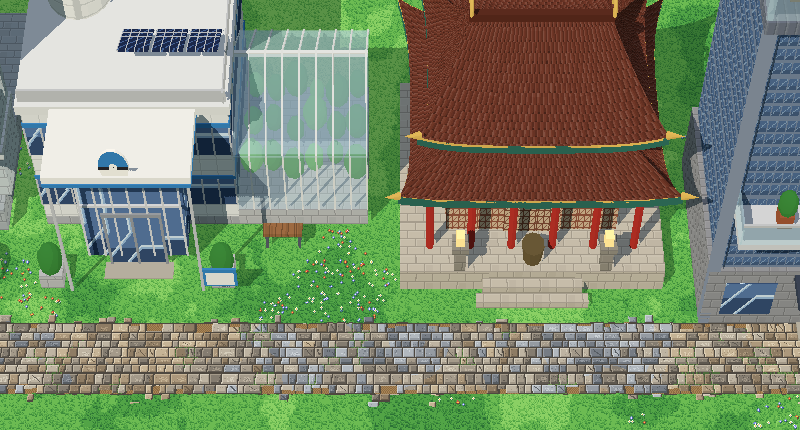
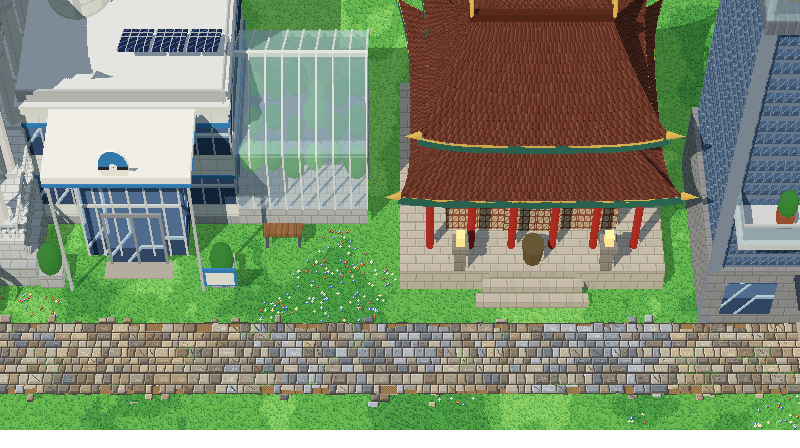
outils(odyssee): arènes en temples-pavillons, allée de la Ligue dégagée [skip changelog]
Arènes : grands temples de pierre à péristyle de colonnes et toits de pavillon
à coins doucement relevés, claire-voie à vitraux, couleur et ornement du type.
Ligue : allée allongée à 32 cases, colonnes isolées à vasques de feu, plus
aucune poutre au-dessus du chemin ni devant le portail. Chapelle sans croix.

Claude-Session: https://claude.ai/code/session_01E9CUaRG7xUjwzj1i4ypday

Changed region(s): [[0.0, 0.0, 0.1562, 0.6875]]

diff --git a/tools/pixelforge/modeles3d.js b/tools/pixelforge/modeles3d.js
@@ -973,7 +973,7 @@ export function atelier(D) {
     for (const [dx, dz] of [[0, 0.76], [0.81, 0]]) G.add(at(boite(dx ? 0.03 : 0.5, 0.8, dx ? 0.5 : 0.03, COL('#1a1614')), cx + dx, 4.0, zc + dz));
     G.add(at(new THREE.Mesh(new THREE.CircleGeometry(0.35, 14, 0, Math.PI), COL('#1a1614')), cx, 4.4, zc + 0.76));
     G.add(toit4(G, cx, zc, 4.9, 0.95, 0.9, 2.6, M({ map: TX.ardoise(toit) }), 0));
-    G.add(at(boite(0.06, 0.7, 0.06, OR), cx, 7.85, zc)); G.add(at(boite(0.36, 0.06, 0.06, OR), cx, 7.95, zc));
+    G.add(at(new THREE.Mesh(new THREE.SphereGeometry(0.1, 8, 6), OR), cx, 7.6, zc));
     const ro = new THREE.Mesh(new THREE.CircleGeometry(0.34, 16), M({ map: TX.vitrail('#c83a5a') })); G.add(at(ro, cx, 2.6, zc + 0.76));
     G.add(at(new THREE.Mesh(new THREE.TorusGeometry(0.36, 0.06, 6, 16), PM), cx, 2.6, zc + 0.78));
     G.add(at(boite(0.8, 1.2, 0.04, M({ map: TX.bois('#5a3020') })), cx, 0.6, zc + 0.76));
@@ -1167,17 +1167,18 @@ export function atelier(D) {
 
   /* -------------------------------------------------------------- arènes par type ----------------------------------- */
   const ARENES = {
-    feu: { acc: '#e05a20', pierre: '#a08070', toit: '#5a2a22', roof: 'toit4' },
-    eau: { acc: '#2a86d8', pierre: '#d0dce4', toit: '#2a6aa8', roof: 'dome' },
-    plante: { acc: '#4aa040', pierre: '#cfc6a4', toit: '#3a7a3a', roof: 'toit4' },
-    electrik: { acc: '#f0c020', pierre: '#b8bcc4', toit: '#50545e', roof: 'voute' },
-    psy: { acc: '#c050c0', pierre: '#ddd4e6', toit: '#6a3a8a', roof: 'dome' },
-    dragon: { acc: '#6a4ad0', pierre: '#76728a', toit: '#3a2a5a', roof: 'toit4' },
-    glace: { acc: '#60c0f0', pierre: '#e4f0f6', toit: '#9ad0ec', roof: 'dome' },
-    roche: { acc: '#b08a50', pierre: '#a89a84', toit: '#6a5a4a', roof: 'toit4' },
-    combat: { acc: '#c83028', pierre: '#c8bca8', toit: '#4a3a32', roof: 'voute' },
-    spectre: { acc: '#8a50c8', pierre: '#625e70', toit: '#2a2438', roof: 'toit4' },
+    feu: { acc: '#e05a20', pierre: '#c8b0a0', toit: '#b8402a' },
+    eau: { acc: '#2a86d8', pierre: '#dce4ea', toit: '#2a6aa8' },
+    plante: { acc: '#4aa040', pierre: '#d8d0b0', toit: '#3a7a3a' },
+    electrik: { acc: '#f0c020', pierre: '#c8ccd2', toit: '#c89a20' },
+    psy: { acc: '#c050c0', pierre: '#e4dcea', toit: '#7a3a9a' },
+    dragon: { acc: '#6a4ad0', pierre: '#9a96a8', toit: '#3a2a6a' },
+    glace: { acc: '#60c0f0', pierre: '#eaf2f6', toit: '#8ac8e8' },
+    roche: { acc: '#b08a50', pierre: '#c0b29a', toit: '#7a6a52' },
+    combat: { acc: '#c83028', pierre: '#d4c8b4', toit: '#8a2a22' },
+    spectre: { acc: '#8a50c8', pierre: '#86829a', toit: '#3a2c4a' },
   };
+
   /** emblème du type dessiné sur un médaillon */
   const emblemeTex = (type, acc) => tex('em' + type, 2 * D, 2 * D, (g, px, w, h) => {
     g.fillStyle = '#f4f0e6'; g.beginPath(); g.arc(w / 2, h / 2, w / 2, 0, 7); g.fill();
@@ -1257,79 +1258,86 @@ export function atelier(D) {
     if (type === 'plante') for (let i = 0; i < 5; i++) G.add(at(new THREE.Mesh(new THREE.SphereGeometry(0.12, 6, 4), COL(['#f05a7a', '#f8d850', '#fafaf2'][i % 3])), x - 0.3 + i * 0.15, 0.85, z + 0.3));
     sommetType(G, type, x, 0.77, z, acc);
   }
-  /** arène (11 × 9) : un bâtiment plus haut et plus majestueux que la mairie, peu de fenêtres. Socle, grande salle de
-   *  pierre, pilastres, frise de la couleur du type, grande rosace en vitrail, deux pylônes coiffés d'un ornement du
-   *  type, avancée couverte à six colonnes sous un fronton à l'emblème, perron bordé d'ornements ; toit selon le type
-   *  (croupes, coupole, voûte). Porte de 2 cases. */
+  /** arène (12 × 11) : un grand temple de pierre entre le pavillon et le temple à colonnade. Haut podium à deux gradins
+   *  bordé d'une balustrade, péristyle de colonnes de marbre à chapiteaux dorés tout autour d'une salle de pierre,
+   *  entablement à frise de la couleur du type, premier toit en jupe à coins à peine relevés, claire-voie à vitraux,
+   *  grand toit à demi-croupes de tuiles de la couleur du type, faîtage orné et ornement du type au sommet, bannières
+   *  entre les colonnes de façade, lanternes sous l'avant-toit, perron monumental bordé d'ornements ; porte de 2 cases */
   B.arene = ({ type = 'feu', ...autres } = {}) => {
     const T = { ...(ARENES[type] || ARENES.feu), ...autres }, acc = T.acc;
-    const G = new THREE.Group(), cx = 5.5, H = 5.2, y0 = 0.6, PM = M({ map: TX.pierre(T.pierre) }), PB = M({ map: TX.pierre(mix(T.pierre, 0.35)) }), A = COL(acc);
-    G.add(at(boite(10.6, y0, 6.6, M({ map: TX.pierre(mix(T.pierre, -0.15)) })), cx, y0 / 2, 3.3));
-    G.add(at(boite(8.4, H, 6, PM), cx, y0 + H / 2, 3));
-    G.add(at(boite(8.5, 0.4, 6.1, A), cx, y0 + H - 0.35, 3));
-    for (let i = 0; i < 14; i++) G.add(at(boite(0.24, 0.24, 0.04, COL('#f4f0e6')), 1.6 + i * 0.6, y0 + H - 0.35, 6.07));
-    G.add(at(boite(8.9, 0.24, 6.5, PB), cx, y0 + H + 0.05, 3));
-    // toit
-    const yt = y0 + H + 0.17;
-    if (T.roof === 'dome') {
-      G.add(at(boite(8.4, 0.35, 6, PB), cx, yt + 0.17, 3));
-      G.add(at(cyl(2.4, 2.5, 0.8, PM, 24), cx, yt + 0.75, 3));
-      const dm = new THREE.Mesh(new THREE.SphereGeometry(2.45, 24, 12, 0, Math.PI * 2, 0, Math.PI / 2), M({ map: TX.canal(T.toit) })); dm.castShadow = true; G.add(at(dm, cx, yt + 1.15, 3));
-      for (let i = 0; i < 12; i++) { const a = i / 12 * Math.PI * 2, nv = new THREE.Mesh(new THREE.TorusGeometry(2.47, 0.05, 4, 12, Math.PI / 2), A); nv.rotation.y = -a; G.add(at(nv, cx, yt + 1.15, 3)); }
-      sommetType(G, type, cx, yt + 3.5, 3, acc);
-    } else if (T.roof === 'voute') {
-      voute(G, 1.3, 9.7, 0, 6, yt, 2.2, M({ map: TX.tole(T.toit) }), A, 0.25);
-      for (let k = 0; k < 6; k++) { const nv = new THREE.Mesh(new THREE.TorusGeometry(3.25, 0.07, 4, 16, Math.PI), A); nv.scale.set(1, 2.2 / 3.25, 1); nv.rotation.y = Math.PI / 2; G.add(at(nv, 1.6 + k * 1.56, yt, 3)); }
-      G.add(at(boite(5.5, 0.12, 1.0, M({ map: TX.verre() })), cx, yt + 2.22, 3));
-    } else {
-      G.add(toit4(G, cx, 3, yt, 4.55, 3.4, 2.4, M({ map: TX.ardoise(T.toit) }), 0.35));
-      G.add(at(boite(3.4, 0.2, 0.3, A), cx, yt + 2.5, 3));
-      if (type === 'feu') for (const dx of [-1.5, 0, 1.5]) flamme(G, cx + dx, yt + 2.58, 3, 1.3);
-      if (type === 'dragon') for (let i = 0; i < 7; i++) { const c = new THREE.Mesh(new THREE.ConeGeometry(0.12, 0.5, 5), COL('#e8e0d0')); c.rotation.x = -0.3; G.add(at(c, cx - 1.5 + i * 0.5, yt + 2.8, 3)); }
-      if (type === 'plante') for (let i = 0; i < 8; i++) G.add(at(new THREE.Mesh(new THREE.SphereGeometry(0.3, 6, 4), COL(i % 2 ? '#4a9a40' : '#3a8a38')), 2 + i * 1.0, yt + 0.5 + (i % 3) * 0.3, 5.5 - (i % 3) * 0.6));
-      if (type === 'spectre') for (const dx of [-1.8, 1.8]) { G.add(at(boite(0.4, 1.4, 0.4, COL('#2a2438')), cx + dx, yt + 2.9, 3)); G.add(at(new THREE.Mesh(new THREE.ConeGeometry(0.32, 1.0, 4), COL('#2a2438')), cx + dx, yt + 4.1, 3)); }
-      if (type === 'roche') for (let i = 0; i < 5; i++) { const p = new THREE.Mesh(new THREE.DodecahedronGeometry(0.35), M({ map: TX.pierre('#8a7e6a') })); G.add(at(p, 2.0 + i * 1.7, yt + 0.4, 5.7)); }
+    const G = new THREE.Group(), cx = 6, cz = 4.6, A = COL(acc);
+    const PM = M({ map: TX.pierre(T.pierre) }), PB = M({ map: TX.pierre(mix(T.pierre, 0.35)) }), PS = M({ map: TX.pierre(mix(T.pierre, -0.12)) }), MA = M({ map: TX.marbre() });
+    // podium à deux gradins (z 0 → 9,4), perron au sud (z 9,4 → 10,8)
+    G.add(at(boite(12, 0.55, 9.4, PS), cx, 0.27, cz));
+    G.add(at(boite(11.4, 0.5, 8.8, PM), cx, 0.8, cz));
+    G.add(at(boite(11.5, 0.08, 8.9, PB), cx, 1.06, cz));
+    const y0 = 1.05;
+    for (let k = 0; k < 5; k++) G.add(at(boite(4.4 + k * 0.25, 0.21, 0.32, PB), cx, 0.105 + (4 - k) * 0.21, 9.2 + k * 0.32 - 0.16));
+    for (const s of [-1, 1]) {   // limons du perron
+      G.add(at(boite(0.35, 0.9, 1.7, PM), cx + s * 2.45, 0.45, 9.85));
     }
-    if (type === 'glace') for (let i = 0; i < 20; i++) { const c = new THREE.Mesh(new THREE.ConeGeometry(0.06, 0.25 + hash(i, 3) * 0.3, 5), M({ color: new THREE.Color('#d8f2ff'), transparent: true, opacity: 0.85 })); c.rotation.x = Math.PI; G.add(at(c, 1.3 + i * 0.44, y0 + H - 0.3, 6.28)); }
-    if (type === 'electrik') for (const x of [2.5, 8.5]) { G.add(at(cyl(0.03, 0.04, 1.4, COL('#c8ccd4'), 6), x, yt + 2.6, 3)); G.add(at(new THREE.Mesh(new THREE.SphereGeometry(0.1, 8, 6), LUM('#fff080', '#c0a000')), x, yt + 3.35, 3)); }
-    // pylônes
-    for (const xx of [0.9, 10.1]) {
-      const hp = H + 1.6;
-      G.add(at(boite(1.8, hp, 1.8, PM), xx, y0 + hp / 2, 5.2));
-      for (const yy of [y0 + 1.2, y0 + hp - 0.6]) G.add(at(boite(1.95, 0.2, 1.95, PB), xx, yy, 5.2));
-      G.add(at(boite(1.0, 0.04, 0.02, A), xx, y0 + hp - 1.2, 6.11));
-      fenArc(G, xx, y0 + hp - 2.4, 6.1, 0.4, 0.9, PB, M({ map: TX.vitrail(acc) }));
-      const ban = boite(0.8, 2.2, 0.03, A); G.add(at(ban, xx, y0 + 2.2, 6.12));
-      G.add(at(new THREE.Mesh(new THREE.CircleGeometry(0.28, 16), M({ map: emblemeTex(type, acc) })), xx, y0 + 2.6, 6.15));
-      G.add(at(boite(2.1, 0.25, 2.1, PB), xx, y0 + hp + 0.12, 5.2));
-      sommetType(G, type, xx, y0 + hp + 0.25, 5.2, acc);
+    // balustrade du podium (ouverte devant le perron)
+    const bx0 = cx - 5.6, bx1 = cx + 5.6, bz0 = cz - 4.3, bz1 = cz + 4.3;
+    balustrade(G, bx0, bz1, cx - 2.3, bz1, y0, PB, 0.4, 0.26); balustrade(G, cx + 2.3, bz1, bx1, bz1, y0, PB, 0.4, 0.26);
+    balustrade(G, bx0, bz0, bx0, bz1, y0, PB, 0.4, 0.26); balustrade(G, bx1, bz0, bx1, bz1, y0, PB, 0.4, 0.26);
+    // salle de pierre
+    const hc = 4.2, sx = 4.2, sz = 2.95;
+    G.add(at(boite(2 * sx, hc, 2 * sz, PM), cx, y0 + hc / 2, cz - 0.2));
+    for (const yy of [y0 + 0.15, y0 + hc - 0.3]) G.add(at(boite(2 * sx + 0.08, 0.14, 2 * sz + 0.08, PB), cx, yy, cz - 0.2));
+    const zf = cz - 0.2 + sz;
+    // grande porte à double battant sous une imposte en vitrail, encadrement doré
+    G.add(at(boite(1.8, 2.3, 0.05, M({ map: TX.bois('#5a3020') })), cx, y0 + 1.15, zf + 0.01));
+    G.add(at(boite(0.04, 2.3, 0.06, COL('#2a1a10')), cx, y0 + 1.15, zf + 0.04));
+    for (const s of [-1, 1]) for (let k = 0; k < 3; k++) G.add(at(new THREE.Mesh(new THREE.SphereGeometry(0.04, 6, 4), OR), cx + s * 0.45, y0 + 0.5 + k * 0.65, zf + 0.05));
+    G.add(at(new THREE.Mesh(new THREE.CircleGeometry(0.9, 18, 0, Math.PI), M({ map: TX.vitrail(acc) })), cx, y0 + 2.3, zf + 0.01));
+    G.add(at(new THREE.Mesh(new THREE.TorusGeometry(0.95, 0.07, 6, 18, Math.PI), OR), cx, y0 + 2.3, zf + 0.05));
+    for (const s of [-1, 1]) G.add(at(boite(0.12, 2.3, 0.1, OR), cx + s * 0.96, y0 + 1.15, zf + 0.05));
+    for (const s of [-1, 1]) for (const dx of [1.9, 3.0]) fenArc(G, cx + s * dx, y0 + 1.9, zf, 0.5, 2.0, PB, M({ map: TX.vitrail(acc) }));
+    // péristyle : colonnes tout autour (8 en façade), chapiteaux et bagues dorés
+    const px = 5.0, pz = 3.85, pzc = cz - 0.1, hcol = 4.2;
+    const cols = [];
+    for (let i = 0; i < 8; i++) { const x = cx - px + i * (2 * px / 7); cols.push([x, pzc + pz], [x, pzc - pz]); }
+    for (let i = 1; i < 5; i++) { const z = pzc - pz + i * (2 * pz / 5); cols.push([cx - px, z], [cx + px, z]); }
+    for (const [x, z] of cols) { colonne(G, x, z, y0, hcol, 0.24, MA, PB); G.add(at(cyl(0.29, 0.29, 0.07, OR, 12), x, y0 + hcol - 0.32, z)); }
+    // entablement : architrave, frise de la couleur du type à médaillons, corniche
+    const ye = y0 + hcol;
+    G.add(at(boite(2 * px + 0.75, 0.32, 2 * pz + 0.75, PB), cx, ye + 0.16, pzc));
+    G.add(at(boite(2 * px + 0.78, 0.3, 2 * pz + 0.78, A), cx, ye + 0.47, pzc));
+    for (let i = 0; i < 13; i++) G.add(at(new THREE.Mesh(new THREE.CircleGeometry(0.09, 10), OR), cx - px + i * (2 * px / 12), ye + 0.47, pzc + pz + 0.4));
+    G.add(at(boite(2 * px + 1.0, 0.16, 2 * pz + 1.0, PB), cx, ye + 0.7, pzc));
+    // plaque à l'emblème au-dessus de l'entrée
+    G.add(at(boite(1.5, 0.75, 0.08, PB), cx, ye + 0.45, pzc + pz + 0.44));
+    G.add(at(new THREE.Mesh(new THREE.CircleGeometry(0.3, 20), M({ map: emblemeTex(type, acc) })), cx, ye + 0.45, pzc + pz + 0.49));
+    G.add(at(new THREE.Mesh(new THREE.TorusGeometry(0.32, 0.05, 6, 20), OR), cx, ye + 0.45, pzc + pz + 0.5));
+    // premier toit en jupe : coins à peine relevés (élégance du pavillon, sans exagération)
+    const yr = ye + 0.78, TT = { col: T.toit, rive: mix(T.pierre, -0.45), bord: '#e8c060', uvk: 0.4, flare: 0.04 };
+    toitChinois(G, cx, pzc, yr, px + 0.55, pz + 0.55, 0.6, { ...TT, xt: sx + 0.05, zt: sz + 0.25, lift: 0.25 });
+    // claire-voie : mur bas percé de vitraux ronds, poteaux de pierre
+    const yv = yr + 0.55, hv = 1.8;
+    G.add(at(boite(2 * sx + 0.1, hv, 2 * sz + 0.5, PM), cx, yv + hv / 2, pzc));
+    for (let i = 0; i < 5; i++) { const x = cx - 2.8 + i * 1.4; fenArc(G, x, yv + hv / 2 - 0.1, pzc + sz + 0.25, 0.5, 0.75, PB, M({ map: TX.vitrail(acc) })); }
+    for (let i = 0; i < 6; i++) G.add(at(boite(0.18, hv, 0.1, PB), cx - 3.5 + i * 1.4, yv + hv / 2, pzc + sz + 0.27));
+    G.add(at(boite(2 * sx + 0.3, 0.14, 2 * sz + 0.7, PB), cx, yv + hv - 0.07, pzc));
+    // grand toit à demi-croupes, faîtage orné, ornement du type au sommet
+    const yh = yv + hv - 0.05;
+    toitChinois(G, cx, pzc, yh, sx + 0.75, sz + 0.75, 1.75, { ...TT, xt: sx - 1.0, zt: 0.14, lift: 0.35 });
+    const orn = new THREE.Group(); orn.scale.setScalar(0.8); G.add(orn);
+    sommetType(orn, type, cx / 0.8, (yh + 1.85) / 0.8, pzc / 0.8, acc);
+    // lanternes pendues aux coins de l'avant-toit, bannières entre les colonnes de façade
+    for (const sxx of [-1, 1]) for (const szz of [-1, 1]) { G.add(at(boite(0.03, 0.35, 0.03, COL('#2a2a30')), cx + sxx * (px + 0.3), yr - 0.05, pzc + szz * (pz + 0.3))); G.add(at(cyl(0.12, 0.12, 0.3, LUM('#ffe0a0', '#a06020'), 8), cx + sxx * (px + 0.3), yr - 0.38, pzc + szz * (pz + 0.3))); }
+    for (const s of [-1, 1]) {
+      const x = cx + s * (2 * px / 7) * 1.5;
+      G.add(at(boite(0.05, 0.05, 0.9, COL('#2a2a30')), x, ye - 0.08, pzc + pz - 0.1));
+      G.add(at(boite(0.75, 2.2, 0.03, A), x, ye - 1.2, pzc + pz + 0.3));
+      G.add(at(new THREE.Mesh(new THREE.CircleGeometry(0.24, 16), M({ map: emblemeTex(type, acc) })), x, ye - 0.9, pzc + pz + 0.32));
+      const pt = new THREE.Shape(); pt.moveTo(-0.375, 0); pt.lineTo(0.375, 0); pt.lineTo(0, -0.3); pt.closePath();
+      G.add(at(new THREE.Mesh(new THREE.ShapeGeometry(pt), A), x, ye - 2.3, pzc + pz + 0.3));
     }
-    // façade : pilastres, deux hautes baies à vitrail, grande rosace
-    for (const xx of [1.95, 3.0, 8.0, 9.05]) G.add(at(boite(0.3, H - 0.4, 0.14, PB), xx, y0 + (H - 0.4) / 2, 6.06));
-    for (const xx of [2.48, 8.52]) fenArc(G, xx, y0 + 2.0, 6.0, 0.55, 2.2, PB, M({ map: TX.vitrail(acc) }));
-    const ros = new THREE.Mesh(new THREE.CircleGeometry(0.85, 24), M({ map: TX.vitrail(acc) })); G.add(at(ros, cx, y0 + H - 1.35, 6.01));
-    G.add(at(new THREE.Mesh(new THREE.TorusGeometry(0.9, 0.1, 6, 24), PB), cx, y0 + H - 1.35, 6.05));
-    // avancée couverte à colonnes (z 6 → 8,2), fronton à l'emblème
-    G.add(at(boite(6.8, y0, 2.4, M({ map: TX.pierre(mix(T.pierre, -0.15)) })), cx, y0 / 2, 7.2));
-    const hc = 3.3;
-    for (let i = 0; i < 6; i++) { const x = cx - 3.0 + i * 1.2; colonne(G, x, 7.95, y0, hc, 0.22, M({ map: TX.marbre() }), PB); if (type === 'plante') for (let k = 0; k < 5; k++) G.add(at(boite(0.08, 0.35, 0.08, COL('#3c8c3c')), x + Math.sin(k * 2) * 0.2, y0 + 0.5 + k * 0.6, 8.18)); }
-    for (const x of [cx - 3.0, cx + 3.0]) G.add(at(boite(0.4, hc, 0.4, PB), x, y0 + hc / 2, 6.25));
-    G.add(at(boite(7.0, 0.5, 2.5, PB), cx, y0 + hc + 0.25, 7.1));
-    G.add(at(boite(7.04, 0.18, 2.54, A), cx, y0 + hc + 0.12, 7.1));
-    fronton(G, cx, y0 + hc + 0.5, 8.35, 7.0, 1.35, 2.5, PB);
-    G.add(at(new THREE.Mesh(new THREE.CircleGeometry(0.5, 20), M({ map: emblemeTex(type, acc) })), cx, y0 + hc + 0.98, 8.36));
-    G.add(at(new THREE.Mesh(new THREE.TorusGeometry(0.52, 0.06, 6, 20), OR), cx, y0 + hc + 0.98, 8.38));
-    sommetType(G, type === 'eau' || type === 'psy' || type === 'glace' ? type : type, cx, y0 + hc + 1.85, 7.9, acc);
-    // portail : double porte et vitrail en éventail
-    G.add(at(boite(1.8, 2.3, 0.04, M({ map: TX.bois('#5a3020') })), cx, y0 + 1.15, 6.01));
-    G.add(at(boite(0.04, 2.3, 0.05, COL('#2a1a10')), cx, y0 + 1.15, 6.03));
-    G.add(at(new THREE.Mesh(new THREE.CircleGeometry(0.9, 16, 0, Math.PI), M({ map: TX.vitrail(acc) })), cx, y0 + 2.3, 6.01));
-    G.add(at(new THREE.Mesh(new THREE.TorusGeometry(0.95, 0.1, 6, 16, Math.PI), A), cx, y0 + 2.3, 6.05));
-    for (const s of [-1, 1]) G.add(at(boite(0.16, 2.3, 0.16, A), cx + s * 0.98, y0 + 1.15, 6.06));
-    for (let k = 0; k < 3; k++) G.add(at(boite(6.8 + k * 0.3, 0.2, 0.3, PB), cx, 0.1 + (2 - k) * 0.2, 8.55 + k * 0.28));
-    for (const s of [-1, 1]) abordsType(G, type, cx + s * 3.95, 8.6, acc);
+    // abords du perron selon le type
+    for (const s of [-1, 1]) abordsType(G, type, cx + s * 4.0, 10.2, acc);
     return G;
   };
+
   /* -------------------------------------------------------------- ville : tours, bourse, casino ---------------------- */
   /** texture d'un étage de tour répétée verticalement (un étage = 1,1 unité) */
   const parEtage = (t) => { const c = t.clone(); c.repeat.set(1, 1 / 1.1); c.needsUpdate = true; return c; };
@@ -1506,23 +1514,25 @@ export function atelier(D) {
   B.ligue = ({ blanc = '#f4f4f2' } = {}) => {
     const G = new THREE.Group(), cx = 15, W = M({ map: TX.pierre(blanc) }), WB = M({ map: TX.pierre(mix(blanc, 0.4)) }), MA = M({ map: TX.marbre() });
     const H = 11, D0 = 14;
-    // dallage de l'allée et de l'esplanade
-    G.add(at(boite(6.4, 0.08, 24, MA), cx, 0.04, D0 + 12));
+    // allée de 32 cases (≈ 8 s à pied) bordée de colonnes isolées, sans architrave ni traverse : rien ne passe au-dessus
+    // du chemin ni ne masque le portail ; chaque colonne porte une vasque de feu
+    const LA = 32;
+    G.add(at(boite(8.0, 0.08, LA + 1, MA), cx, 0.04, D0 + 1 + LA / 2));
+    for (const s of [-1, 1]) G.add(at(boite(0.3, 0.12, LA + 1, WB), cx + s * 4.1, 0.06, D0 + 1 + LA / 2));
     G.add(at(boite(14, 0.1, 3.0, MA), cx, 0.05, D0 + 1.5));
-    // colonnade
-    const zs = []; for (let z = D0 + 3; z <= D0 + 23; z += 2) zs.push(z);
-    for (const z of zs) for (const x of [cx - 2.9, cx + 2.9]) colonne(G, x, z, 0, 5.2, 0.32, W, WB);
-    // architraves de part et d'autre, fines traverses une fois sur deux : l'allée reste à ciel ouvert
-    for (const x of [cx - 2.9, cx + 2.9]) { G.add(at(boite(0.8, 0.55, 21.0, W), x, 5.47, D0 + 13)); G.add(at(boite(0.84, 0.12, 21.04, WB), x, 5.8, D0 + 13)); }
-    for (let i = 0; i < zs.length; i += 2) G.add(at(boite(6.4, 0.22, 0.3, W), cx, 5.85, zs[i]));
-    for (let i = 0; i < zs.length - 1; i++) for (const x of [cx - 2.35, cx + 2.35]) torche(G, x, zs[i] + 1, 0.08, 1.15);
+    for (let z = D0 + 5; z <= D0 + LA; z += 2.5) for (const s of [-1, 1]) {
+      const x = cx + s * 3.6;
+      G.add(at(boite(0.95, 0.5, 0.95, WB), x, 0.25, z));
+      colonne(G, x, z, 0.5, 4.6, 0.3, W, WB);
+      G.add(at(cyl(0.42, 0.22, 0.32, OR, 12), x, 5.3, z)); flamme(G, x, 5.42, z, 1.6);
+    }
     // entrée de l'allée : deux piliers à statues et quelques marches
     for (const s of [-1, 1]) {
-      const x = cx + s * 3.6, z = D0 + 23.6;
-      G.add(at(boite(1.3, 2.2, 1.3, W), x, 1.1, z)); G.add(at(boite(1.45, 0.2, 1.45, WB), x, 2.25, z));
-      statue(G, x, 2.35, z, 0.9, s);
+      const x = cx + s * 4.9, z = D0 + LA + 1.4;
+      G.add(at(boite(1.4, 2.4, 1.4, W), x, 1.2, z)); G.add(at(boite(1.55, 0.2, 1.55, WB), x, 2.45, z));
+      statue(G, x, 2.55, z, 1.0, s);
     }
-    for (let k = 0; k < 3; k++) G.add(at(boite(6.4 + k * 0.6, 0.12, 0.35, MA), cx, 0.06 + (2 - k) * 0.08, D0 + 24 + k * 0.3));
+    for (let k = 0; k < 3; k++) G.add(at(boite(8.0 + k * 0.6, 0.12, 0.35, MA), cx, 0.06 + (2 - k) * 0.08, D0 + LA + 1.6 + k * 0.3));
     // le bâtiment
     G.add(at(boite(30, 0.8, D0, W), cx, 0.4, D0 / 2));
     G.add(at(boite(30, H, D0 - 0.4, W), cx, 0.8 + H / 2, (D0 - 0.4) / 2));
@@ -1609,7 +1619,7 @@ export const EMPRISES = {
   maison: [4, 3], maisonL: [5, 5], maisonLongue: [5, 3], maisonHaute: [4, 4], maisonExt: [7, 4], chalet: [5, 5], residence: [6, 4],
   cabaneChasseur: [4, 3], cabanePecheur: [5, 4], grange: [6, 5], moulin: [4, 4], phare: [3, 3], auberge: [6, 5], chapelle: [4, 7],
   boulangerie: [4, 4], maisonThe: [5, 5], gare: [8, 4], kiosque: [4, 5], puits: [2, 2], etal: [2, 2],
-  mairie: [9, 6], fontaine: [3, 3], centre: [7, 5], boutique: [5, 6], arene: [11, 10], labo: [10, 8],
-  pagode: [11, 12], pavillon: [8, 7], tour: [8, 5], tourVerre: [10, 7], tourDeco: [8, 8], bourse: [12, 9], casino: [14, 10], ligue: [30, 38],
+  mairie: [9, 6], fontaine: [3, 3], centre: [7, 5], boutique: [5, 6], arene: [12, 11], labo: [10, 8],
+  pagode: [11, 12], pavillon: [8, 7], tour: [8, 5], tourVerre: [10, 7], tourDeco: [8, 8], bourse: [12, 9], casino: [14, 10], ligue: [30, 49],
   escalierMontant: [1, 2], escalierDescendant: [1, 2],
 };

diff --git a/tools/pixelforge/galerie3d.html b/tools/pixelforge/galerie3d.html
@@ -84,7 +84,7 @@ if (vue === 'seul') {
   poser('maisonThe', 1, 14); poser('kiosque', 8, 14); poser('maisonExt', 14, 14); poser('gare', 23, 14); poser('puits', 32, 15); poser('etal', 32, 18);
   cx = +(Q.get('cx') || 25); cz = +(Q.get('cz') || 13);
 } else if (vue === 'ligue') {
-  const SW = 40, SH = 44, MG = 2, kinds = new Uint8Array((SW + 2 * MG) * (SH + 2 * MG)).fill(K.G);
+  const SW = 40, SH = 54, MG = 2, kinds = new Uint8Array((SW + 2 * MG) * (SH + 2 * MG)).fill(K.G);
   sol(kinds, SW, SH, MG, 21); ombres(0, 0, SW, SH);
   poser('ligue', 5, 2);
   cx = +(Q.get('cx') || 20); cz = +(Q.get('cz') || 20);
